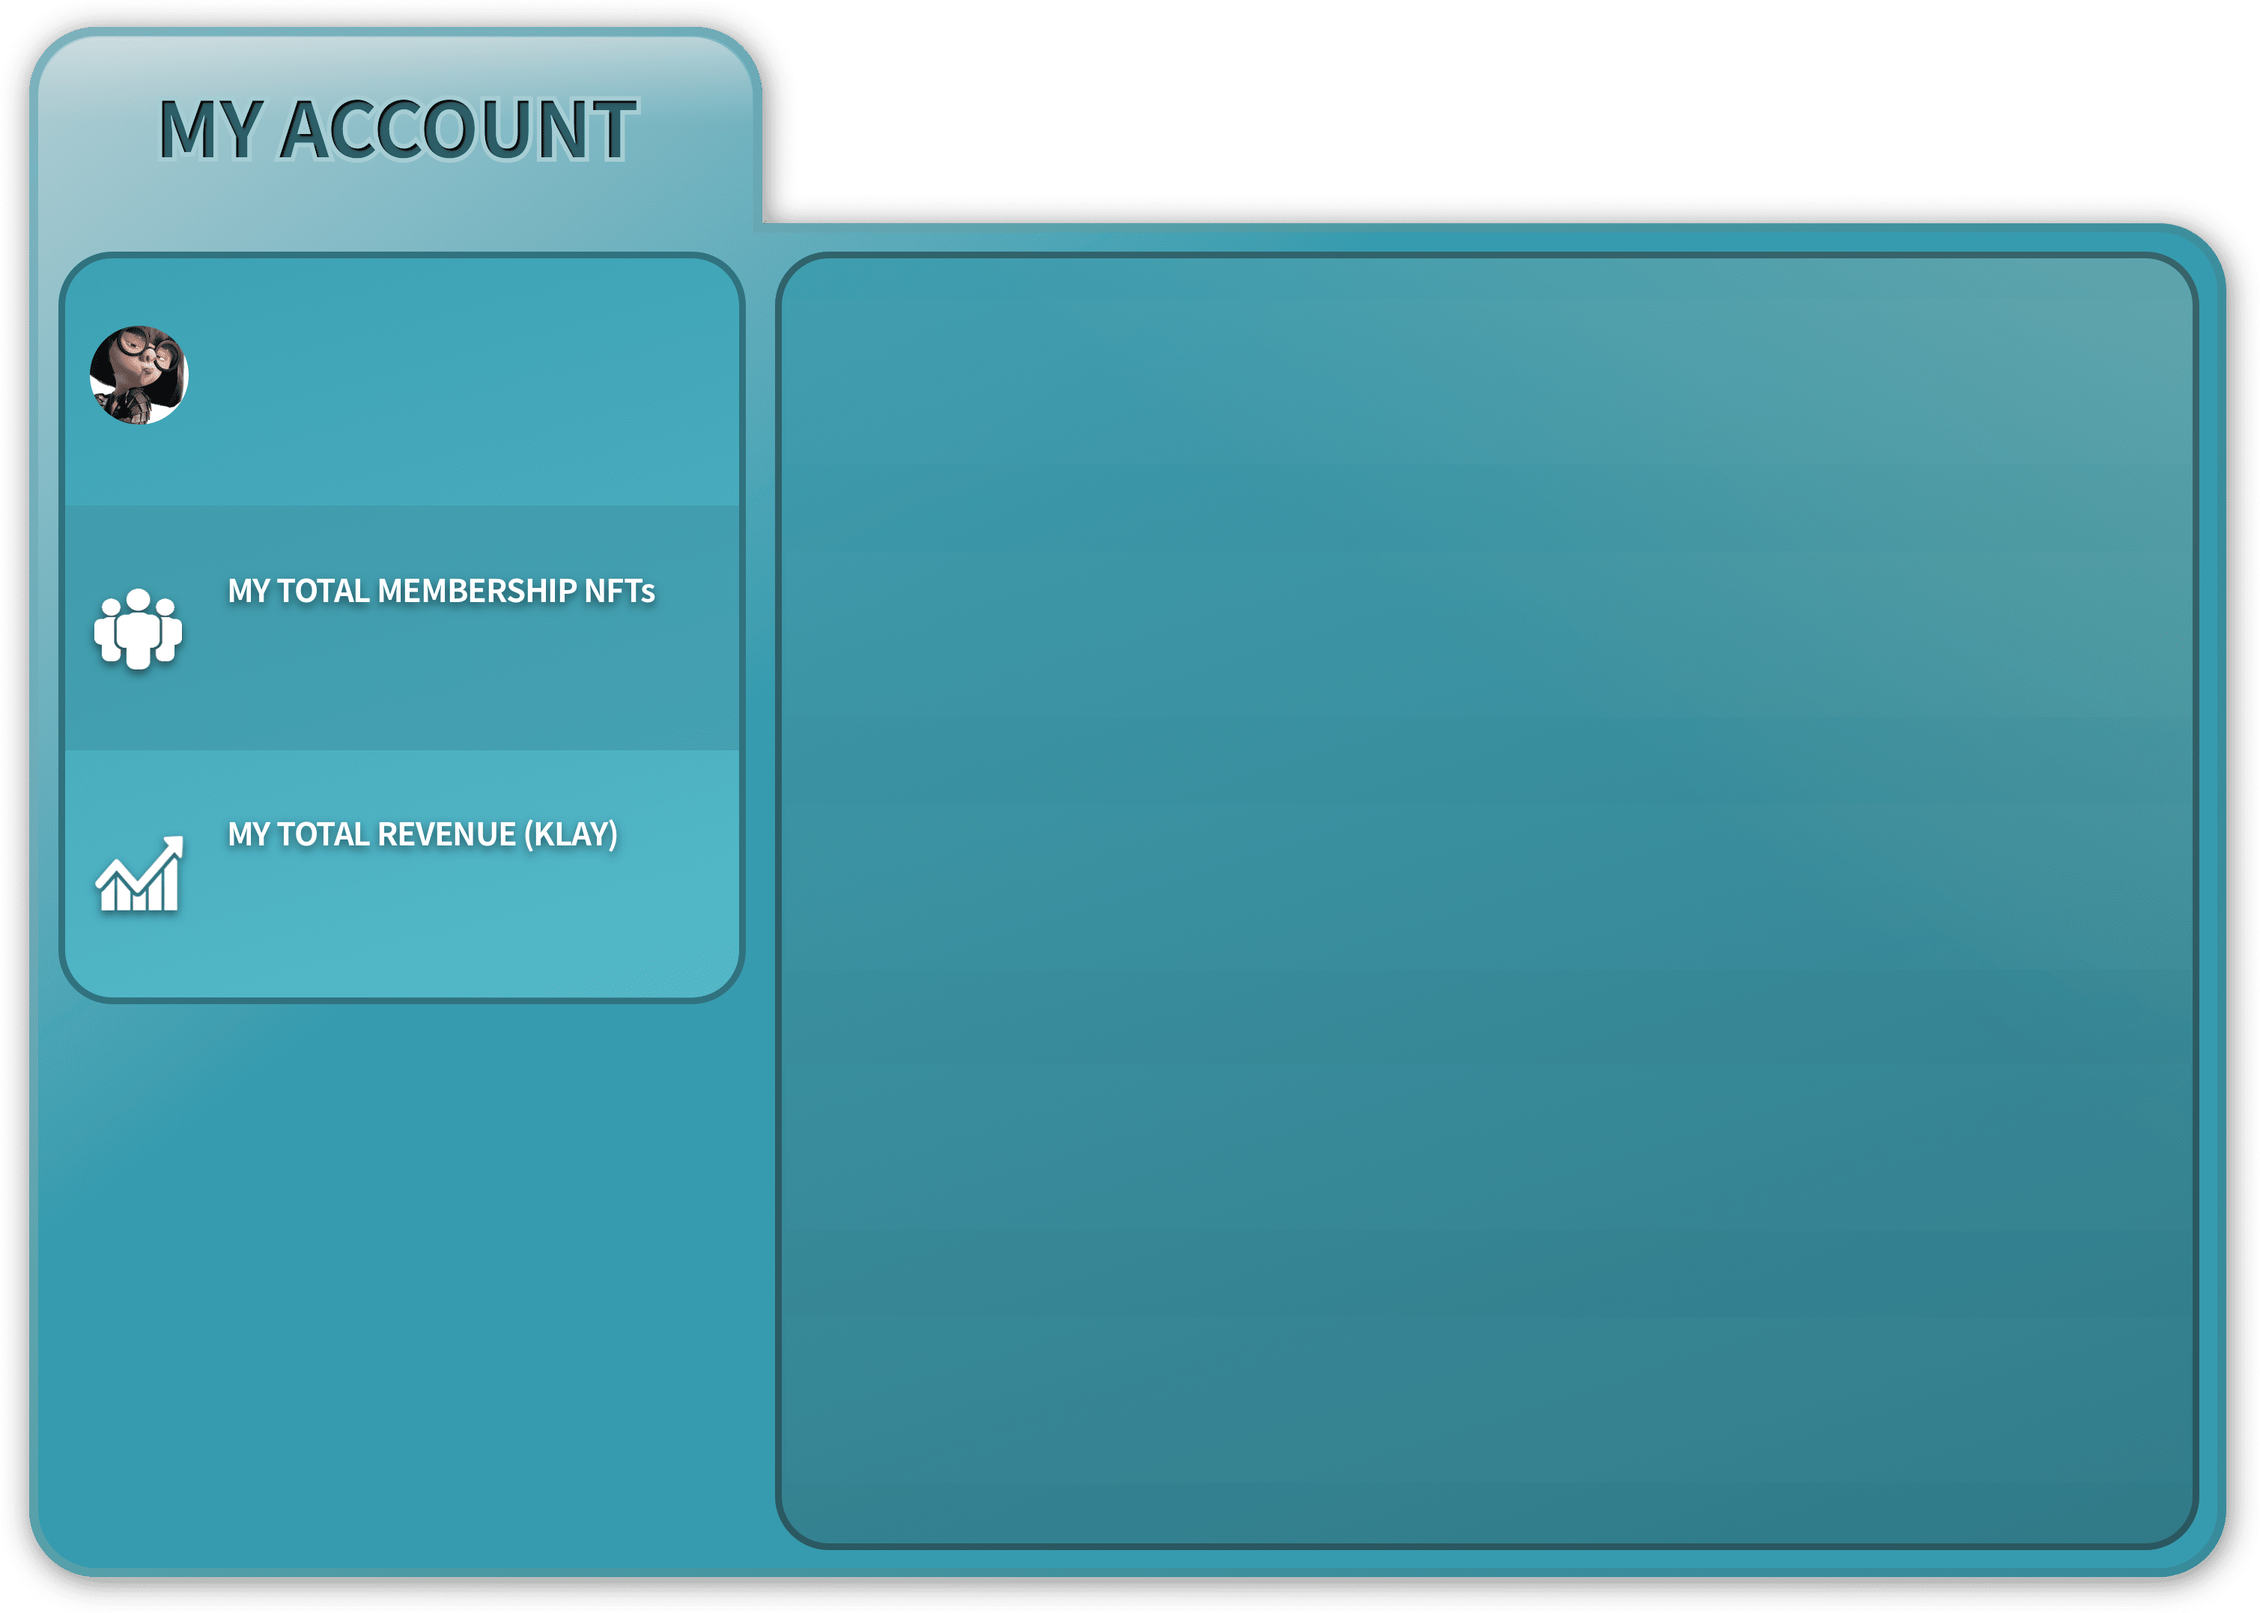
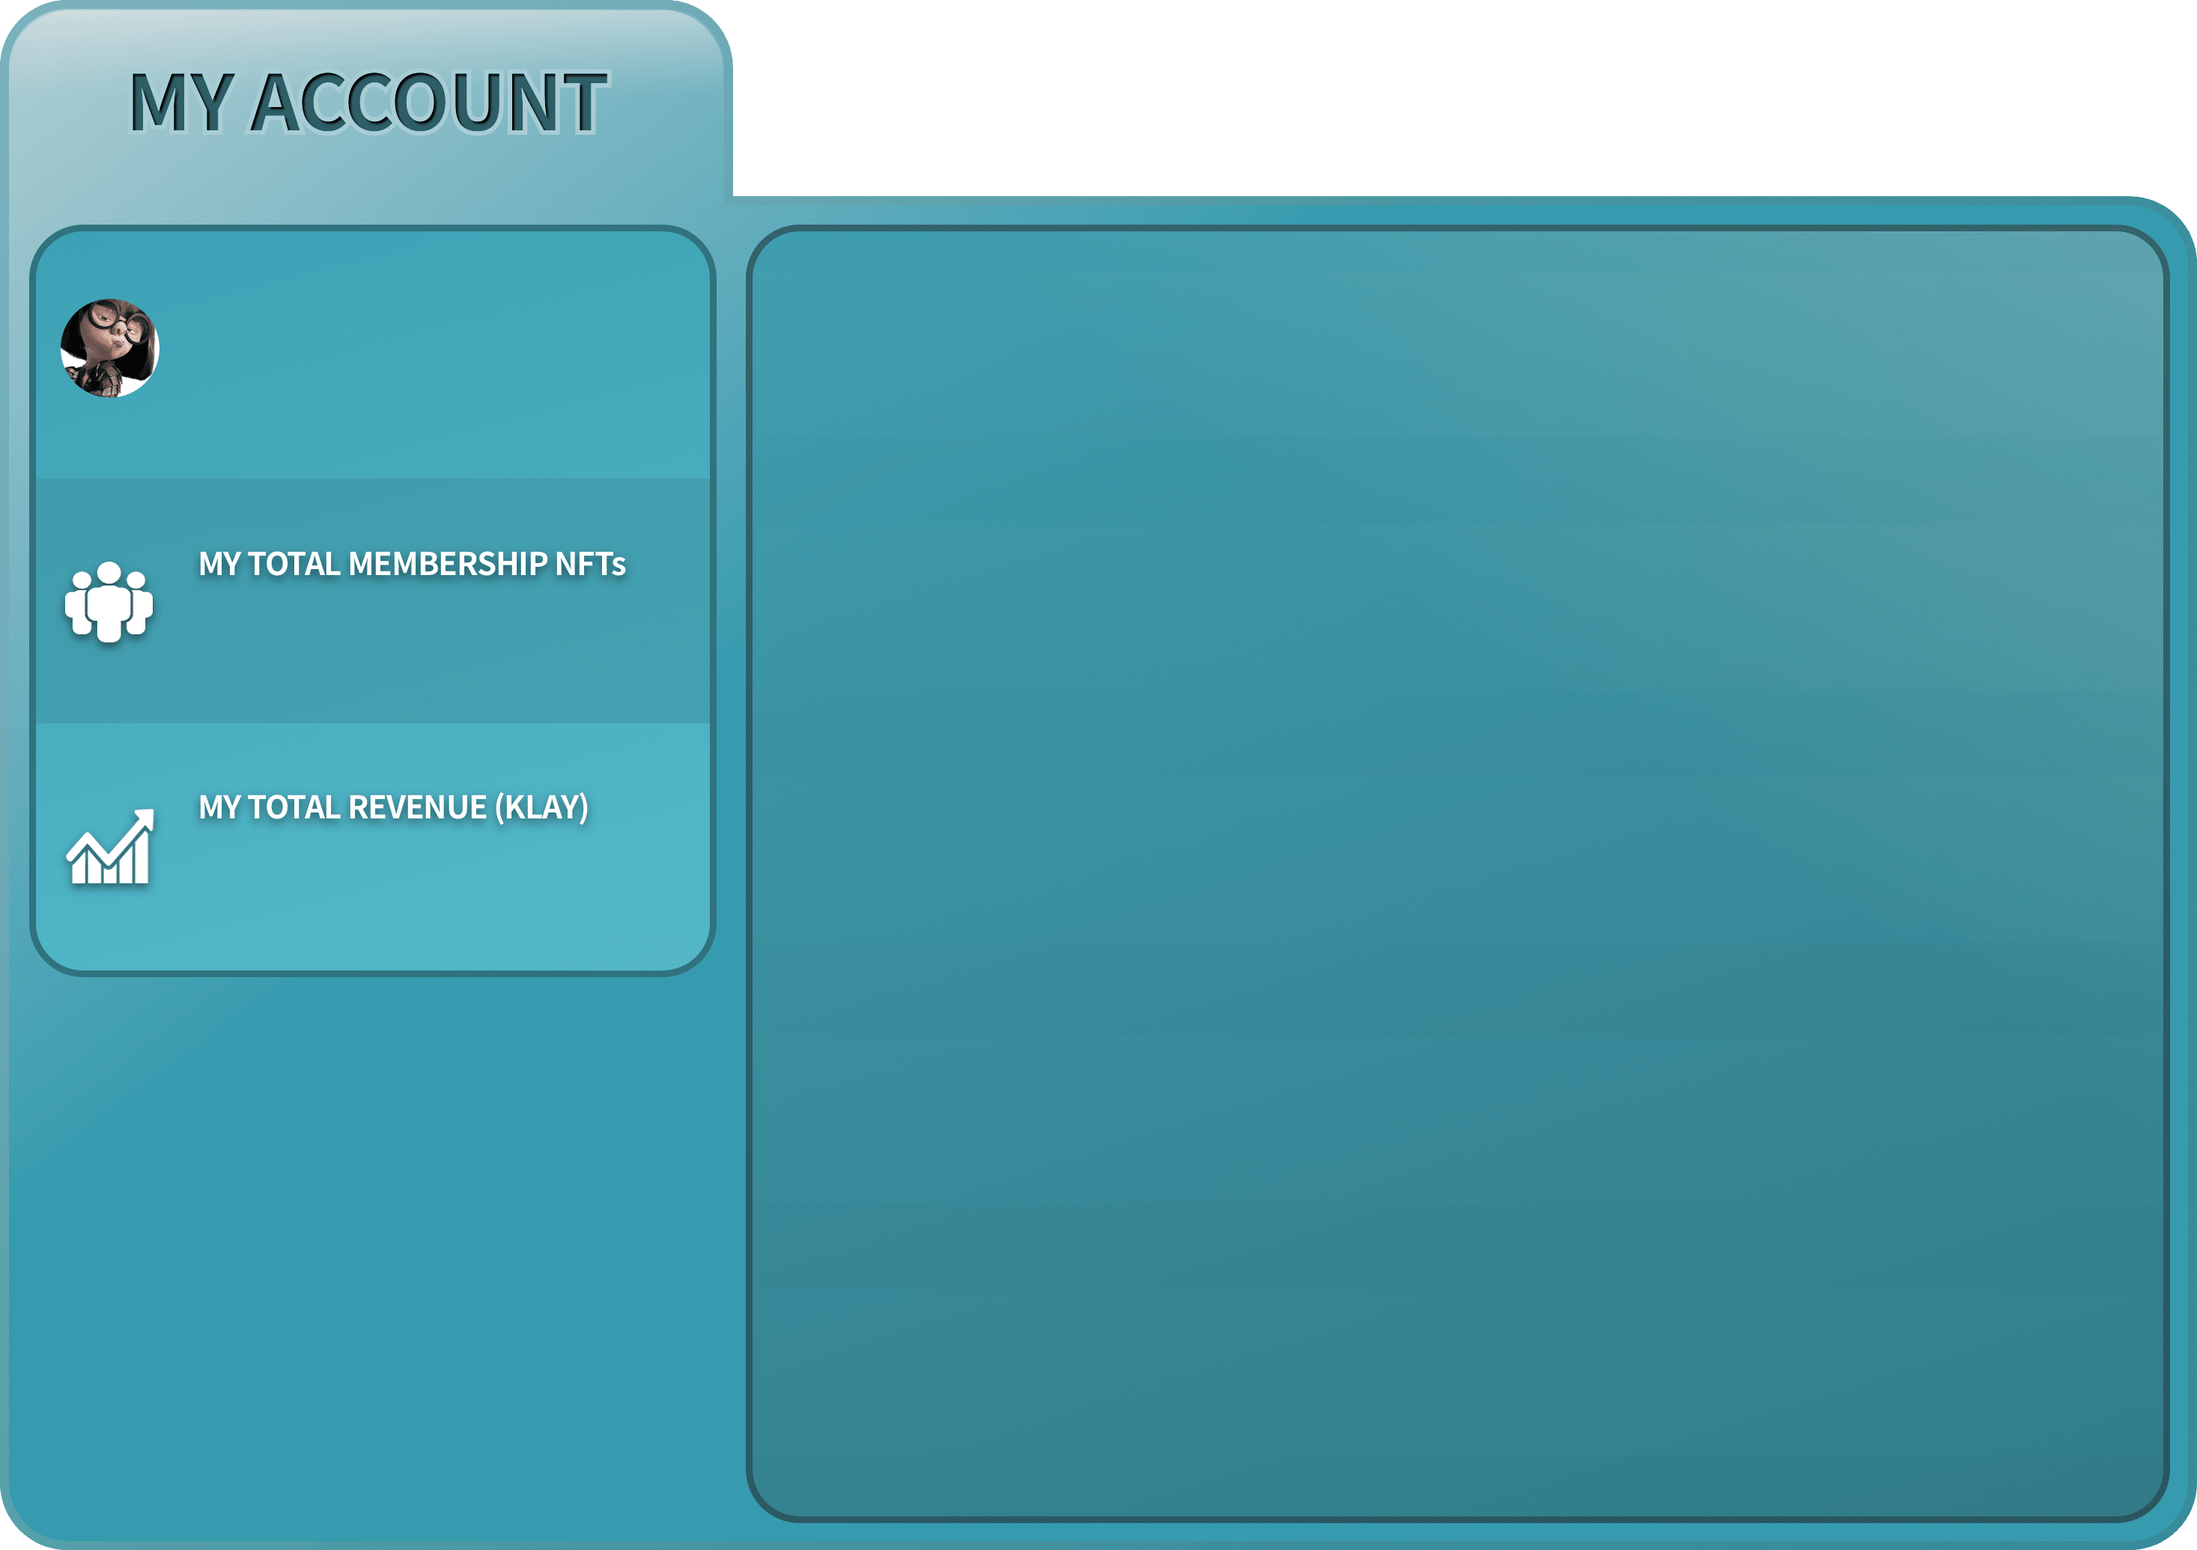
organize

Changed region(s): [[0.0, 0.0, 1.0, 1.0], [0.093, 0.3401, 0.2791, 0.371]]

diff --git a/src/pages/UserInfo.tsx b/src/pages/UserInfo.tsx
@@ -19,11 +19,10 @@ const UserInfo = () => {
 
     return (
 		<div style={{position:"absolute", zIndex:"4"}}>
-			<Avatar style={{position:"absolute", left:"25px", top:"120px"}} src="/asssets/avatar.jpeg" variant="circular" />
-			<Typography variant="h6" style={{position:"absolute", left:"90px", top:"130px"}}>{account.substring(0, 6)+"..."+account.substring(38)}</Typography>
-			<Typography variant="h6" style={{position:"absolute", left:"90px", top:"250px"}}>{"100,000,000"}</Typography>
+			<Typography variant="h5" style={{position:"absolute", left:"90px", top:"135px", textShadow:"-2px -2px #36727E, 2px -2px #36727E, -2px 2px #36727E, 2px 2px #36727E", color:"#FFF"}}>{account.substring(0, 6)+"..."+account.substring(38)}</Typography>
+			<Typography variant="h5" style={{position:"absolute", left:"90px", top:"260px", textShadow:"-2px -2px #36727E, 2px -2px #36727E, -2px 2px #36727E, 2px 2px #36727E", color:"#FFF"}}>{"100,000,000"}</Typography>
 			<Typography style={{position:"absolute", left:"90px", top:"350px"}}>user balance</Typography>
-			<Button style={{position:"absolute", left:"0px", top:"430px"}}><img alt="logout" style={{width:"306px", height:"44px"}} src={require('../image/red-button-on.png')}/></Button>
+			<Button style={{position:"absolute", left:"6px", top:"440px"}}><img alt="logout" style={{width:"306px", height:"44px"}} src={require('../image/red-button-on.png')}/></Button>
 		</div>
     );
 };

diff --git a/src/App.tsx b/src/App.tsx
@@ -5,7 +5,7 @@ import MyAccount from './pages/MyAccount';
 import Discover from './pages/Discover';
 import RentNFT from './pages/RentNFT';
 
-import Image from './image/sky.jpeg';
+import Image from './image/BackGround-Cloud.png';
 import Cloud from './image/cloud.png';
 
 function App() {
@@ -56,7 +56,7 @@ function App() {
         backgroundSize: 'cover',
         backgroundRepeat: 'no-repeat'
       }}>
-        <img alt="cloud" src={require('./image/cloud.png')} style={{width:"600px", height:"300px", position:"absolute", top:`calc(100% - 300px)`, left:"0%", zIndex:5}}/>
+        <img alt="cloud" src={Cloud} style={{width:"600px", height:"300px", position:"absolute", top:`calc(100% - 300px)`, left:"0%", zIndex:5}}/>
         <div style={{width:"978px", height:"690px"}}>
         <Routes>
           <Route path="/" element={<MyAccount/>} />

diff --git a/src/pages/GuildList.tsx b/src/pages/GuildList.tsx
@@ -16,11 +16,11 @@ const GuildList = () => {
 	});
 
     return (
-		<div style={{position:"absolute", zIndex:"4", left:"330px", top:"100px", width:"625px", height:"500px"}}>
+		<div style={{position:"absolute", zIndex:"4", left:"330px", top:"100px", width:"640px", height:"500px"}}>
 			<Box sx={{m:2, p:1}}>
 				<Grid container alignItems="center">
 					<Grid container item justifyContent="flex-start" xs={6}>
-						<Typography variant="h4">My Guilds</Typography>
+						<Typography variant="h4" style={{textShadow:"-2px -2px #36727E, 2px -2px #36727E, -2px 2px #36727E, 2px 2px #36727E", color:"#FFF"}}>My Guilds</Typography>
 					</Grid>
 					<Grid container item justifyContent="flex-end" xs={6}>
 						<Button><img alt="logout" style={{width:"177px", height:"45.8px"}} src={require('../image/action-button-on.png')}/></Button>
